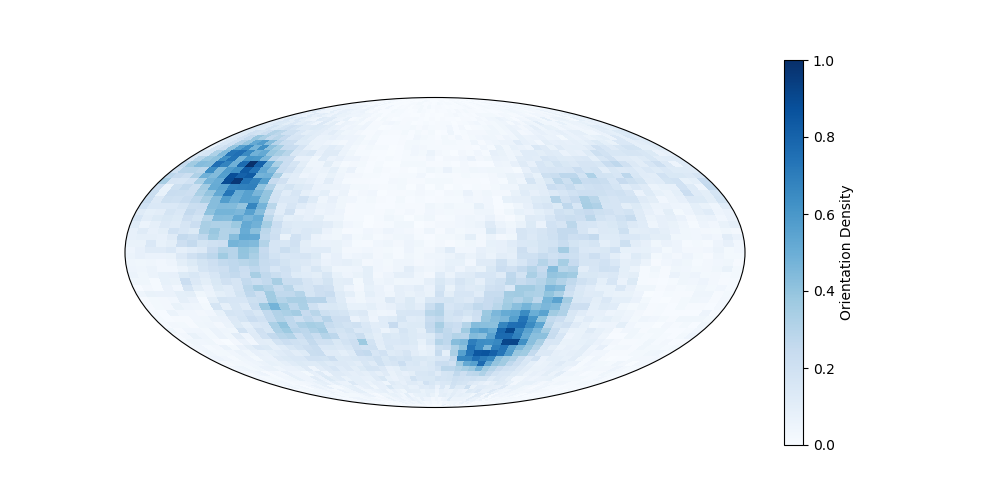
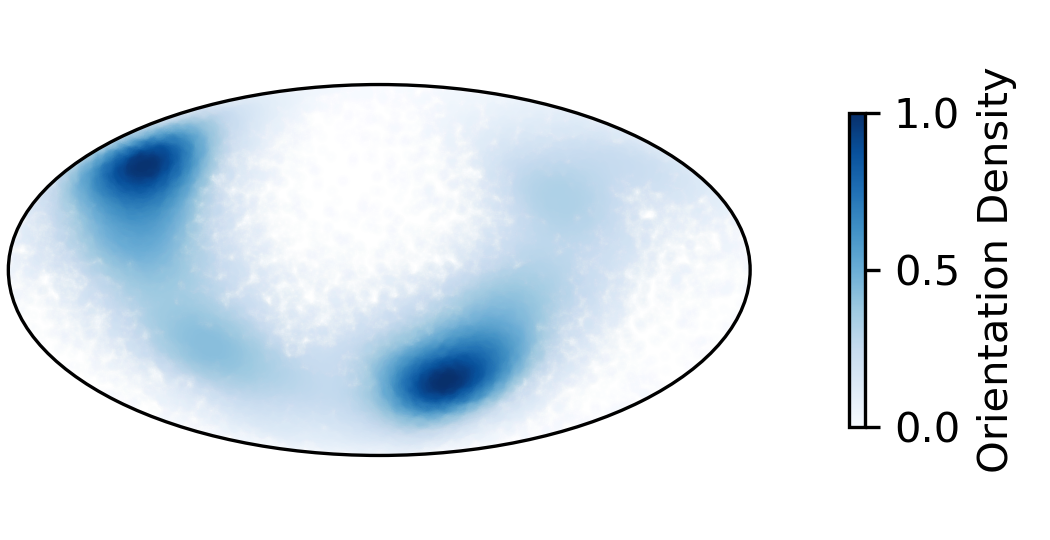
Smooth particle orientation plot

diff --git a/starparser.py b/starparser.py
@@ -523,7 +523,7 @@ def plotclassparts(filename, classes):
     fig = ax.get_figure()
     outputfig(fig, "Class_distribution")
 
-def plotangledist(particles):
+def plotangledist_old(particles):
 
     lon=list(map(float, list(particles["_rlnAngleRot"])))
     lat=list(map(float, list(particles["_rlnAngleTilt"])))
@@ -534,7 +534,7 @@ def plotangledist(particles):
     data = np.array(data) / 180 * np.pi  # shape (n, 2)
 
     # create bin edges
-    bin_number = 100
+    bin_number = 50 #this is not always ideal
     lon_edges = np.linspace(-np.pi, np.pi, bin_number + 1)
     lat_edges = np.linspace(-np.pi/2., np.pi/2., bin_number + 1)
 
@@ -544,15 +544,16 @@ def plotangledist(particles):
     )
 
     # generate the plot
-    fig = plt.figure(figsize=(10,5))
+    fig = plt.figure(figsize=(3,2))
     ax = fig.add_subplot(111, projection='mollweide')
 
     cmap='Blues'
 
-    ax.pcolor(
-        lon_edges, lat_edges,
+    ax.pcolormesh(
+        lon_edges[:-1], lat_edges[:-1],
         hist.T,  # transpose from (row, column) to (x, y)
-        cmap=cmap
+        cmap=cmap,
+        shading='gouraud'
     )
 
     # hide the tick labels
@@ -566,6 +567,79 @@ def plotangledist(particles):
             )
         )
     cbar.set_label("Orientation Density")
+
+    outputfig(fig, "Particle_orientations")
+
+def plotangledist(particles):
+
+    import scipy
+    from scipy.stats import gaussian_kde
+
+    rot=list(map(float, list(particles["_rlnAngleRot"])))
+    tilt=list(map(float, list(particles["_rlnAngleTilt"])))
+
+    ##########################################################################################
+
+    # CODE BELOW ADAPTED FROM SIMILAR FUNCTION BY ISRAEL FERNANDEZ
+
+    ###############
+
+    tilt_m90 = [i -90 for i in tilt]
+    rot_rad = np.deg2rad(rot)
+    tilt_m90_rad = np.deg2rad(tilt_m90)
+    vertical_rad = np.vstack([tilt_m90_rad, rot_rad])
+
+    try:
+        m = gaussian_kde(vertical_rad)(vertical_rad)
+    except:
+        print("\n>> Error: check the _rlnAngleRot and _rlnAngleTilt columns.\n")
+        sys.exit()
+
+    # fig = plt.figure(figsize=(3, 3))
+    # plt.hist(rot_rad)
+    # outputfig(fig,"rot_rad")
+
+    # fig = plt.figure(figsize=(3, 3))
+    # plt.hist(tilt_m90_rad)
+    # outputfig(fig,"tilt_m90_rad")
+
+    fig = plt.figure(figsize=(3.5, 1.8))
+    ax = plt.subplot(111, projection="mollweide")
+
+    import warnings
+    with warnings.catch_warnings():
+        warnings.simplefilter("ignore")
+        ax.scatter(rot_rad, tilt_m90_rad, cmap="Blues", c=m, s=3, alpha=0.1)
+
+    ax.set_xticklabels([])
+    ax.set_yticklabels([])
+
+    #x_60_rad = [1.047 for i in range(0,7)]
+    #x_m60_rad = [-1.047 for i in range(0,7)]
+    #x_120_rad = [2.094 for i in range(0,7)]
+    #x_m120_rad = [-2.094 for i in range(0,7)]
+
+    """These two lines draw curved lines at x -120, -60, 60, 120."""
+    #ax.plot(x_60_rad, np.arange(-1.5, 2, 0.5), color='k', lw=1.5, linestyle=':')
+    #ax.plot(x_m60_rad, np.arange(-1.5, 2, 0.5), color='k', lw=1.5, linestyle=':')
+    #ax.plot(x_120_rad, np.arange(-1.5, 2, 0.5), color='k', lw=1.5, linestyle=':')
+    #ax.plot(x_m120_rad, np.arange(-1.5, 2, 0.5), color='k', lw=1.5, linestyle=':')
+    """These two lines draw vertical and horizontal straight lines as x, y cartesian axes."""
+    #ax.vlines(0,-1.6,1.6, colors='k', lw=1.5, linestyles=':')
+    #ax.hlines(0,-10,10, colors='k', lw=1.5, linestyles=':')
+
+    #########################################################################################################
+
+    # SHOW COLOR BAR
+
+    cbar = plt.colorbar(
+            plt.cm.ScalarMappable(
+                norm=mpl.colors.Normalize(0, 1), cmap="Blues"
+            ), shrink=0.6, pad = 0.1#cax = fig.add_axes([0.92, 0.33, 0.03, 0.38])
+        )
+    cbar.set_label("Orientation Density")
+
+    plt.tight_layout(pad=0.2)
 
     outputfig(fig, "Particle_orientations")
 
@@ -933,7 +1007,7 @@ def classproportion(particles, columns, query):
 
 def outputfig(fig, name):
     
-    fig.savefig(name + "." + outtype)
+    fig.savefig(name + "." + outtype, dpi=300)
     print("\n-->> Output figure to " + name + "." + outtype + ".\n")
     
 def makeopticsgroup(particles,metadata,newgroup):
